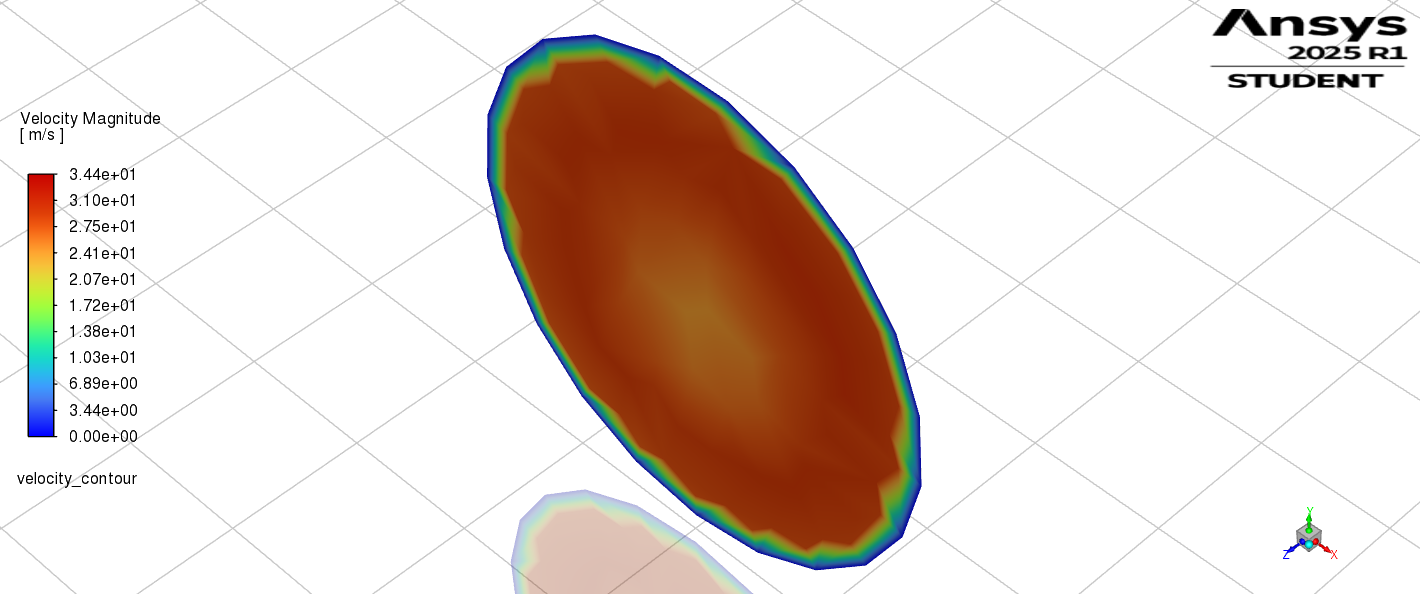
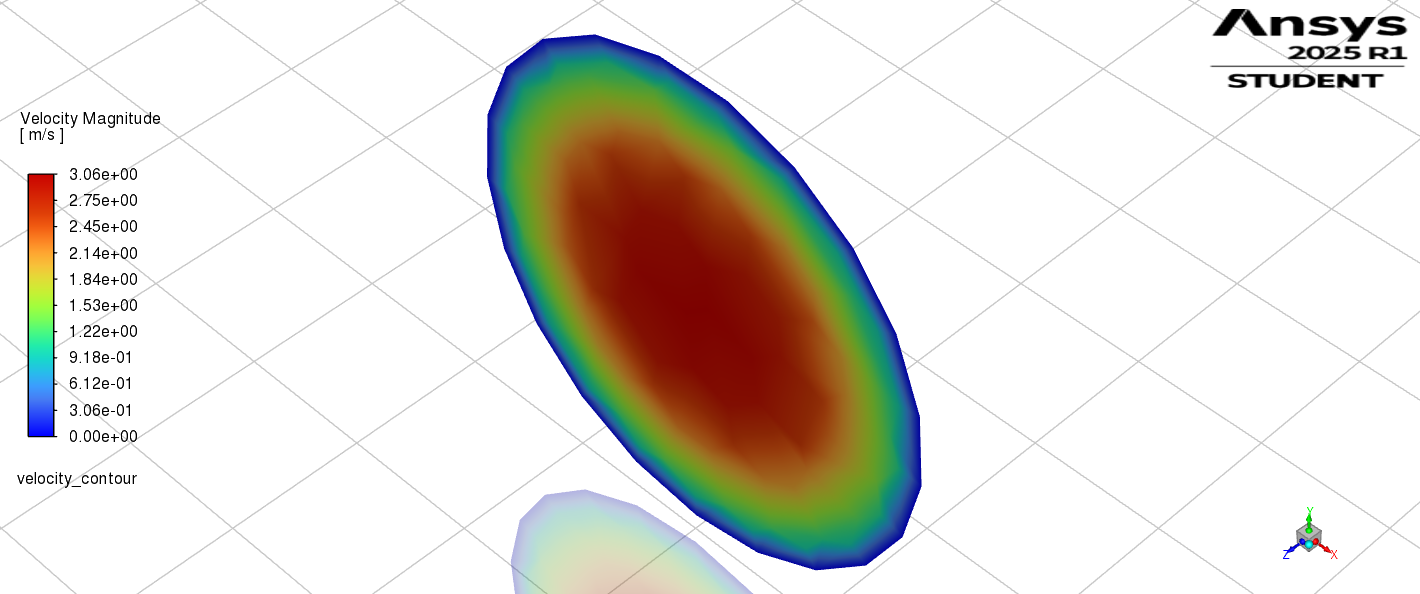
Clean up and data updates: remove deprecated files, update inputs and assets
- Removed unused files: fluent_automation_hardedcode.py, fluent_automation.txt
- Updated .gitignore to refine tracking behavior
- Modified input.yaml for updated simulation config
- Refreshed velocity visualization outputs (velocity.png, velocity_yz.png)
- Adjusted action_dispatcher.py logic to align with new flow

diff --git a/utils/action_dispatcher.py b/utils/action_dispatcher.py
@@ -37,4 +37,4 @@ def execute_action_plan(action_plan: list):
 
     # 🔥 Save all changes once at the end
     yaml_editor.save_yaml()
-    print("✅ All actions executed and YAML saved successfully.")
+    print("✅ All actions ./ and YAML saved successfully.")
